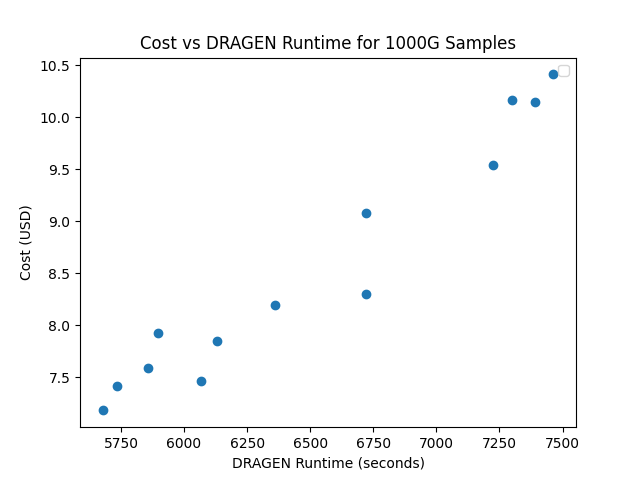
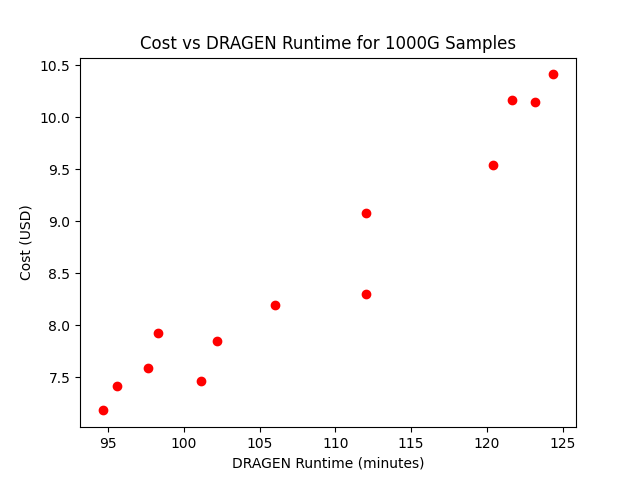
Added plots with line of best fit

diff --git a/python/plots.py b/python/plots.py
@@ -3,8 +3,8 @@ import pandas as pd
 import numpy as np
 import matplotlib.pyplot as plt
 
-csv_file_SGDVP = "python/runtimes_and_costs_for_SGDVP_data.csv"
-csv_file_1000G = "python/runtimes_and_costs_for_1000G_data.csv"
+csv_file_SGDVP = "runtimes_in_minutes_and_costs_for_SGDVP_data.csv"
+csv_file_1000G = "runtimes_in_minutes_and_costs_for_1000G_data.csv"
     
 df_SGDVP = pd.read_csv(csv_file_SGDVP)
 df_1000G = pd.read_csv(csv_file_1000G)  
@@ -21,44 +21,29 @@ workflow_runtime_values_1000G = df_1000G['workflow_runtime'].values
 actual_cost_values_1000G = df_1000G['actual_cost'].values
 sample_size_values_1000G = df_1000G['sample_size'].values
 
-plt.scatter(sample_size_values_SGDVP, actual_cost_values_SGDVP, label='cost for SGDVP samples')
-plt.title('Cost vs Sample Size for SGVDP Samples')
-plt.xlabel('Sample Size (GB)')
-plt.ylabel('Cost (USD)')
-plt.show()
-
-plt.scatter(sample_size_values_1000G, actual_cost_values_1000G, label='cost for 1000G samples')
-plt.title('Cost vs Sample Size for 1000G Samples')
-plt.xlabel('Sample Size (GB)')
-plt.ylabel('Cost (USD)')
-plt.show()
-
-plt.scatter(dragen_runtime_values_SGDVP, actual_cost_values_SGDVP)
-plt.title('DRAGEN Runtime vs Sample Size for SGDVP Samples')
-plt.xlabel('DRAGEN Runtime (seconds)')
-plt.ylabel('Cost (USD)')
-plt.show()
-
-plt.scatter(dragen_runtime_values_1000G, actual_cost_values_1000G)
+# use polyfit to get line of best fit for 1000G data
+x_1000G = np.sort(dragen_runtime_values_1000G)
+y_1000G = actual_cost_values_1000G
+grad_1000G, c_1000G = np.polyfit(x_1000G, y_1000G, 1)
+plt.scatter(x_1000G, y_1000G, c='red')
 plt.title('Cost vs DRAGEN Runtime for 1000G Samples')
-plt.xlabel('DRAGEN Runtime (seconds)')
+plt.xlabel('DRAGEN Runtime (minutes)')
 plt.ylabel('Cost (USD)')
+plt.plot(x_1000G, grad_1000G * x_1000G + c_1000G, '-')
 plt.show()
 
-plt.scatter(dragen_runtime_values_SGDVP, actual_cost_values_SGDVP)
-plt.title('Cost vs DRAGEN Runtime for SGDVP Samples')
-plt.xlabel('DRAGEN Runtime (seconds)')
-plt.ylabel('Cost (USD)')
-plt.show()
+# # use polyfit to get line of best fit for SGDVP data
+# x_SGDVP = np.sort(dragen_runtime_values_SGDVP)
+# y_SGDVP = actual_cost_values_SGDVP
+# grad_SGDVP, c_SGDVP = np.polyfit(x_SGDVP, y_SGDVP, 1)
 
-plt.scatter(sample_size_values_SGDVP, dragen_runtime_values_SGDVP)
-plt.title('DRAGEN Runtime vs Sample Size for SGDVP Samples')
-plt.xlabel('Sample Size (GB)')
-plt.ylabel('DRAGEN Runtime (s)')
-plt.show()
+# # corr_matrix = np.corrcoef(x_SGDVP, y_SGDVP)
+# # corr = corr_matrix[0,1]
+# # R_sq = corr**2
 
-plt.scatter(sample_size_values_1000G, dragen_runtime_values_1000G)
-plt.title('DRAGEN Runtime vs Sample Size for 1000G Samples')
-plt.xlabel('Sample Size (GB)')
-plt.ylabel('DRAGEN Runtime (s)')
-plt.show()
+# plt.scatter(x_SGDVP, y_SGDVP, c='red')
+# plt.plot(x_SGDVP, grad_SGDVP * x_SGDVP + c_SGDVP, '-')
+# plt.title('Cost vs DRAGEN Runtime for SGDVP Samples')
+# plt.xlabel('DRAGEN Runtime (minutes)')
+# plt.ylabel('Cost (USD)')
+# plt.show()
